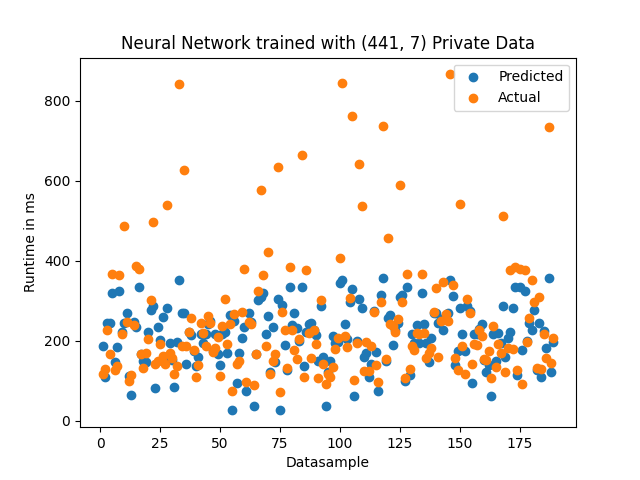
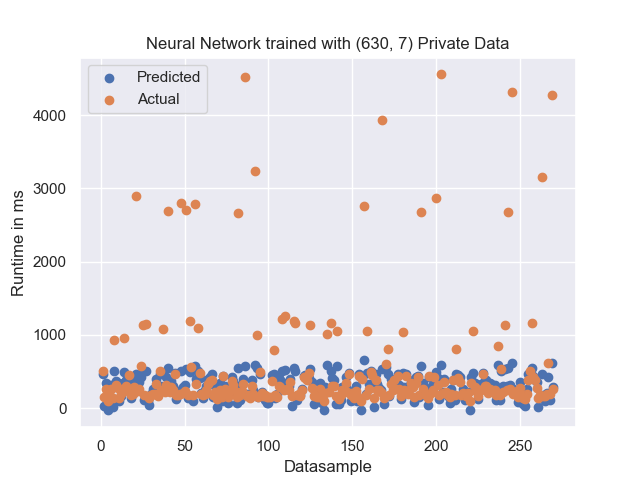
fix stateless plots

diff --git a/dashboard/app.py b/dashboard/app.py
@@ -35,7 +35,7 @@ navbar = dbc.NavbarSimple(
     children=[
         dbc.NavItem(dbc.NavLink("Data Creation", href="/")),
         dbc.NavItem(dbc.NavLink("Runtime Prediction with neural Network", href="/page1")),
-        dbc.NavItem(dbc.NavLink("", href="/page2")),
+        dbc.NavItem(dbc.NavLink("Regression", href="/page2")),
     ],
     brand="Synthetic Data for Runtime Prediction",
     color="#119dff",
@@ -127,8 +127,8 @@ homelayout = html.Div(
                     html.P("Generated Synthetic Data:"),
                     dash_table.DataTable(id='csv-table-synthetic', data="", columns="", page_size=10),
                     html.Br(),
-                    html.Img(id="eval_image", src='assets/no.png', style={'height':'14cm'}),
-                    ], style={'height':'100%'}))
+                    dcc.Graph(id="eval_image"),
+                ], style={'height':'100%'}))
                     ], width=8),
         ]),
 
@@ -164,7 +164,7 @@ def update_output(value):
 
 @app.callback(
     [dash.dependencies.Output('output', 'children'),
-    dash.dependencies.Output('eval_image', 'src'), 
+    dash.dependencies.Output('eval_image', 'figure'),
     dash.dependencies.Output('csv-table-synthetic', 'data'),
     dash.dependencies.Output('csv-table-synthetic', 'columns')],
     [dash.dependencies.State('synthesizer', 'value'),
@@ -185,9 +185,10 @@ def update_output(synthesizer, dataset, epsilon, amount,session_id, n_clicks):
         df = pd.read_csv('temp/sythetic_data.csv')
         return f"You selected {synthesizer}, {dataset}, {epsilon}, {amount}.", f'assets/temp_{dataset}.png', df.to_dict('records'), [{'name': col, 'id': col} for col in df.columns]
     else:
-        ds = ind_data_syn.IDS(epsilon=epsilon, num_tuples=amount, input_data=f'../datasets/{dataset}.csv',  uuid=session_id, dataset=dataset)
+        ids = ind_data_syn.IDS
+        figure = ids.request(epsilon=epsilon, num_tuples=amount, input_data=f'../datasets/{dataset}.csv',  uuid=session_id, dataset=dataset)
         df = pd.read_csv('temp/sythetic_data.csv')
-        return f"You selected {synthesizer}, {dataset}, {epsilon}, {amount}.", f'assets/temp_ids_{dataset}.png', df.to_dict('records'), [{'name': col, 'id': col} for col in df.columns]
+        return f"You selected {synthesizer}, {dataset}, {epsilon}, {amount}.", figure, df.to_dict('records'), [{'name': col, 'id': col} for col in df.columns]
 
 
 

diff --git a/dashboard/ind_data_syn.py b/dashboard/ind_data_syn.py
@@ -7,10 +7,12 @@ from DataSynthesizer.lib.utils import read_json_file, display_bayesian_network
 import pandas as pd
 import seaborn as sns
 import matplotlib.pyplot as plt
+import plotly.graph_objects as go
+import plotly.subplots as sp
 
 
 class IDS():
-    def __init__(self,input_data:str,uuid:str, epsilon: int = 0, num_tuples: int = 1000,  dataset: str="sort"):
+    def request(self,input_data:str,uuid:str, epsilon: int = 0, num_tuples: int = 1000,  dataset: str="sort"):
 
         description_file = f'temp/{uuid}.json'
         synthetic_data = f'temp/{uuid}.csv'
@@ -50,19 +52,22 @@ class IDS():
         # Read attribute description from the dataset description file.
         #attribute_description = read_json_file(description_file)['attribute_description']
 
-
+        # Calculate mutual information
         private_mi = pairwise_attributes_mutual_information(input_df)
         synthetic_mi = pairwise_attributes_mutual_information(synthetic_df)
 
-        fig = plt.figure(figsize=(15, 6), dpi=120)
-        fig.suptitle('Pairwise Mutual Information Comparison (Private vs Synthetic)', fontsize=20)
-        ax1 = fig.add_subplot(121)
-        ax2 = fig.add_subplot(122)
-        sns.heatmap(private_mi, ax=ax1, cmap="Blues")
-        sns.heatmap(synthetic_mi, ax=ax2, cmap="Blues")
-        ax1.set_title('Private, max=1', fontsize=15)
-        ax2.set_title('Synthetic, max=1', fontsize=15)
-        fig.autofmt_xdate()
-        fig.tight_layout()
-        plt.subplots_adjust(top=0.83)
-        fig.savefig(f'assets/{uuid}_{dataset}.png')
+        # Create subplots
+        fig = sp.make_subplots(rows=1, cols=2, subplot_titles=("Private, max=1", "Synthetic, max=1"))
+
+        # Add heatmaps
+        fig.add_trace(go.Heatmap(z=private_mi, colorscale="Blues"), row=1, col=1)
+        fig.add_trace(go.Heatmap(z=synthetic_mi, colorscale="Blues"), row=1, col=2)
+
+        # Update layout
+        fig.update_layout(
+            title="Pairwise Mutual Information Comparison (Private vs Synthetic)",
+            width=900,
+            height=400,
+            showlegend=False
+        )
+        return fig

diff --git a/dashboard/eval_nn.py b/dashboard/eval_nn.py
@@ -8,7 +8,8 @@ import matplotlib.pyplot as plt
 import plotly.express as px
 import plotly.graph_objs as go
 import plotly.graph_objects as go
-
+import numpy as np
+from plotly.subplots import make_subplots
 
 
 class NN():
@@ -85,6 +86,12 @@ class NN():
                 mae += abs(truth[i] - prediction[i])
             return mae
 
+        def calculate_mape(prediction, truth):
+            mape = 0
+            for i in range(len(prediction)):
+                mape += np.mean(np.abs((truth[i] - prediction[i]) / truth[i])) * 100
+            return mape
+
 
         def plot_scatter(x_values, y_values, y_values_2, stri, s1, s2):
 
@@ -112,13 +119,11 @@ class NN():
 
         def plot_scatter2(y_values, y_values_2, stri, s1, s2):
             # Create a scatter plot
-            fig = go.Figure()
             x_values = list(range(1, len(y_values) + 1))
 
-            # Add the scatter traces for predicted and actual values
-            fig.add_trace(go.Scatter(x=x_values, y=y_values, mode='markers', name='Predicted'))
-            fig.add_trace(go.Scatter(x=x_values, y=y_values_2, mode='markers', name='Actual'))
-                  # Set the layout of the plot
+            # Create figure with secondary y-axis
+            fig = px.scatter(x=x_values, y=[y_values.flatten(), y_values_2.flatten()])
+
             fig.update_layout(
                 xaxis=dict(title='Datasample'),
                 yaxis=dict(title='Runtime in ms'),
@@ -128,5 +133,5 @@ class NN():
 
             return fig
         return plot_scatter2(scaled_y, Y_test, "normal", X.shape, synX.shape), plot_scatter2(synscaled_y, Y_test, "syn",X.shape, synX.shape), calculate_mse(scaled_y, Y_test), calculate_mse(synscaled_y, Y_test), calculate_mae(scaled_y, Y_test), calculate_mae(
-                synscaled_y, Y_test)
+                synscaled_y, Y_test), calculate_mape(scaled_y, Y_test), calculate_mape(synscaled_y, Y_test)
 

diff --git a/dashboard/training.py b/dashboard/training.py
@@ -87,5 +87,5 @@ def training_callbacks(app):
             return "Please enter a value and click the submit button.", n_clicks
         else:
             nn = eval_nn.NN()
-            fig1, fig2, mse1, mse2, mse3, mse4 = nn.train(dataset, optimizer, split, epochs, n_clicks)
-            return f"NN Trained", fig1, fig2, n_clicks, f'{mse1}, {mse2}, {mse3}, {mse4}'
+            fig1, fig2, mse1, mse2, mse3, mse4, mse5, mse6 = nn.train(dataset, optimizer, split, epochs, n_clicks)
+            return f"NN Trained", fig1, fig2, n_clicks, f'MSE (original): {mse1}, MSE (synthetic):{mse2}, MAE(original):{mse3}, MAE (synthetic): {mse4}, MAPE (original): {mse5}, MAPE (synthetic): {mse6}'
